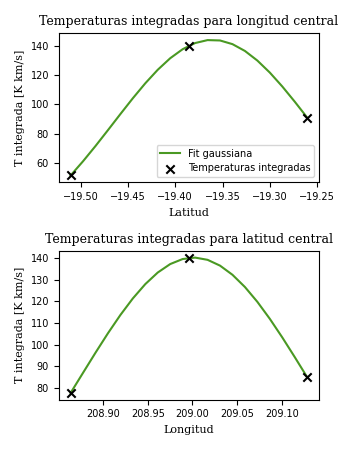
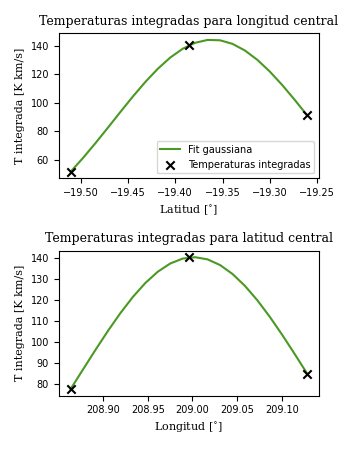
Ultimo update

diff --git a/Tareas/Tarea1.py b/Tareas/Tarea1.py
@@ -79,6 +79,7 @@ def f_gauss(x,T0,mean,stdv):
     return T0*np.exp(-((x-mean)**2)/(2*(stdv**2)))
 
 def error(T_array):
+    #errores_array = T_array
     errores_array = T_array[np.where(T_array<1)]
     output = np.sqrt(np.mean(errores_array**2))
     return output
@@ -260,13 +261,12 @@ ax3[0].yaxis.set_tick_params(labelsize=7)
 ax3[1].xaxis.set_tick_params(labelsize=7)
 ax3[1].yaxis.set_tick_params(labelsize=7)
 ax3[0].set_title('Temperaturas máximas para longitud central', fontsize=9, fontproperties=font)
-ax3[0].set_xlabel('Latitud', fontsize=8, fontproperties=font)
+ax3[0].set_xlabel(r'Latitud [$^{\circ}$]', fontsize=8, fontproperties=font)
 ax3[0].set_ylabel('Temperatura [K]', fontsize=8, fontproperties=font)
 ax3[1].set_title('Temperaturas máximas para latitud central', fontsize=9, fontproperties=font)
-ax3[1].set_xlabel('Longitud', fontsize=8, fontproperties=font)
+ax3[1].set_xlabel(r'Longitud [$^{\circ}$]', fontsize=8, fontproperties=font)
 ax3[1].set_ylabel('Temperatura [K]', fontsize=8, fontproperties=font)
 ax3[0].legend(fontsize=7)
-#fig3.supylabel('Temperatura [K]', fontsize=8, fontproperties=font)
 fig3.tight_layout()    
 fig3.savefig("Fit_temperaturas_maxs")
 
@@ -280,10 +280,10 @@ ax4[0].yaxis.set_tick_params(labelsize=7)
 ax4[1].xaxis.set_tick_params(labelsize=7)
 ax4[1].yaxis.set_tick_params(labelsize=7)
 ax4[0].set_title('Temperaturas integradas para longitud central', fontsize=9, fontproperties=font)
-ax4[0].set_xlabel('Latitud', fontsize=8, fontproperties=font)
+ax4[0].set_xlabel(r'Latitud [$^{\circ}$]', fontsize=8, fontproperties=font)
 ax4[0].set_ylabel('T integrada [K km/s]', fontsize=8, fontproperties=font)
 ax4[1].set_title('Temperaturas integradas para latitud central', fontsize=9, fontproperties=font)
-ax4[1].set_xlabel('Longitud', fontsize=8, fontproperties=font)
+ax4[1].set_xlabel(r'Longitud [$^{\circ}$]', fontsize=8, fontproperties=font)
 ax4[1].set_ylabel('T integrada [K km/s]', fontsize=8, fontproperties=font)
 ax4[0].legend(fontsize=7)
 fig4.tight_layout()    
@@ -292,6 +292,7 @@ fig4.savefig("Fit_temperaturas_integradas_maxs")
 error_promedios_2 = np.zeros(5)
 error_promedios_3 = np.zeros(5)
 error_position_promedio = np.zeros(5)
+#error_primera_pasada = errores_calculados[:, 0]
 for i in range(0, 5):
     error_promedios_2[i]=error(T_promedios_2[:, i])
     error_promedios_3[i]=error(T_promedios_3[:, i])
